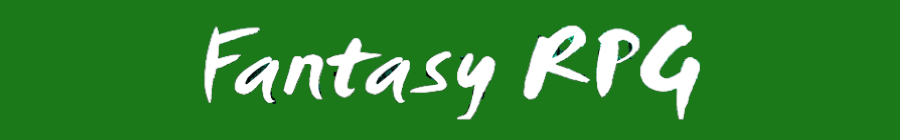
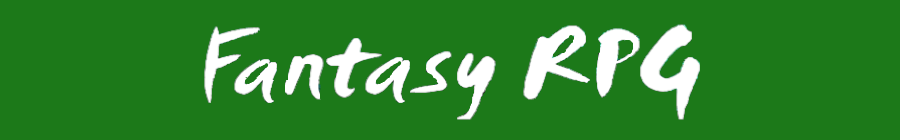
Fixed image to not have partial background

diff --git a/src/main/java/gui/mainGui/MainFrame.java b/src/main/java/gui/mainGui/MainFrame.java
@@ -29,7 +29,7 @@ public class MainFrame extends JFrame{
 		String[] panelNames = {"HOME", "PROFILE", "CHARACTERS", "COMMUNITY", "WIKI"};
 		PANEL_NAMES = Arrays.asList(panelNames);
 		
-		HEADER_IMG = "src/resources/header.png";
+		HEADER_IMG = "src/resources/header-v2.png";
 	}
 	
 	public MainFrame() throws IOException {
